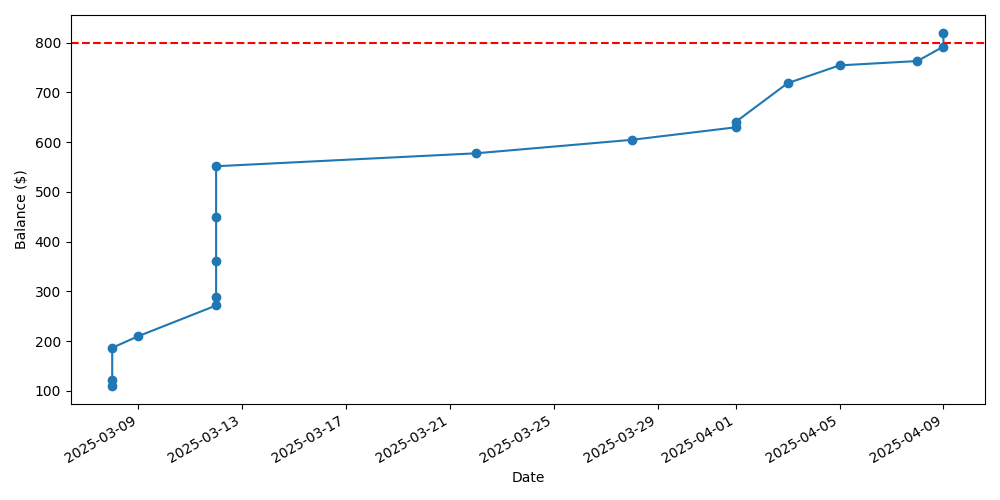
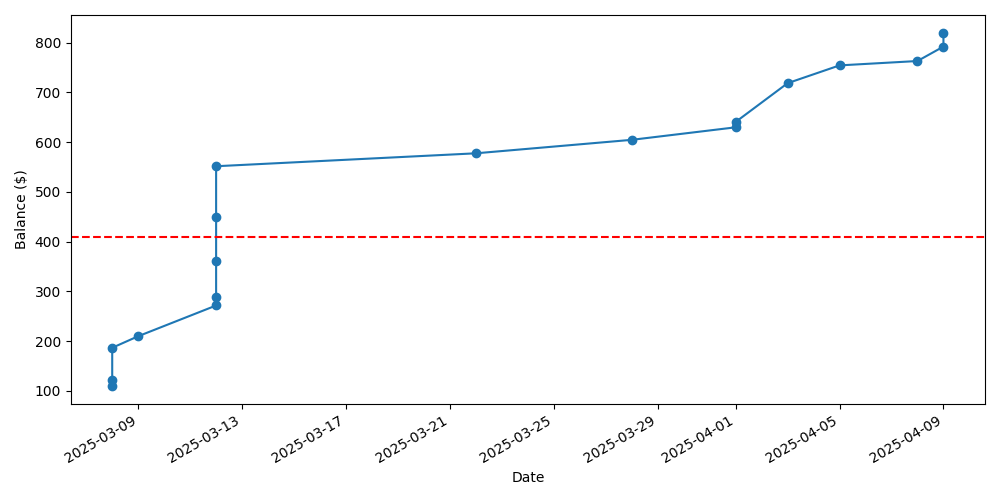
Fixed the bug with the set budget plotting

diff --git a/templates/index.html b/templates/index.html
@@ -68,7 +68,7 @@
                 </div>
                 <section id="balance-over-time">
                     <h2>Balance Over Time</h2>
-                    <img src="{{ url_for('static', filename='plot.png') }}" alt="Balance Over Time Plot">
+                    <img src="{{ plot_url }}" alt="Balance Over Time Plot">
                 </section>
 
                 <section id="account-activity">

diff --git a/Main_File.py b/Main_File.py
@@ -1,3 +1,4 @@
+import time
 import os
 import pandas as pd
 import matplotlib.pyplot as plt
@@ -77,7 +78,7 @@ class AccountManager:
 
         #'Date' column is in datetime format for correct chronological plotting.
         try:
-            self.df['Date'] = pd.to_datetime(self.df['Date'])
+            self.df['Date'] = pd.to_datetime(self.df['Date'], format='mixed', errors='coerce')
         except Exception as e:
             print(f"Error converting 'Date' column to datetime: {e}")
             # Handles cases where date conversion fails (e.g., malformed dates)
@@ -134,14 +135,18 @@ def index():
     budget_amount_str = request.args.get('budget_amount')
     budget_amount = None
     if budget_amount_str:
-        try:
-            budget_amount = float(budget_amount_str)
-        except ValueError:
-            print("Invalid budget amount recieved")
+        if budget_amount_str:
+            try:
+                budget_amount = float(budget_amount_str)
+            except ValueError:
+                print("Invalid budget amount recieved")
 
+    #This should create a new file name for our png, and update with each budget update. 
     plot_path = accman.plot(budget_amount=budget_amount)
+    plot_cache_url = f"{plot_path}?timestamp={time.time()}"
+
     transactions = accman.get_activity()
-    html_str = render_template('index.html', title="Landing Page", plot_url=plot_path, balance=current_balance, transactions=transactions, budget_amount=budget_amount) # title will be inlined in {{ title }}
+    html_str = render_template('index.html', title="Landing Page", plot_url=plot_cache_url, balance=current_balance, transactions=transactions, budget_amount=budget_amount) # title will be inlined in {{ title }}
     print(html_str) # DEBUG
     return html_str  # give it to the browser to display the inline page
 

diff --git a/to_do.py b/to_do.py
@@ -3,7 +3,7 @@ ________________________________________________________________________________
 #general spellcheck
 #Take away time on transaction list
 #Fix random line appearing on page
-
+#troubleshoot the date not working properly
 
 ________________________________________________________________________________
 ###COMPLETED###
